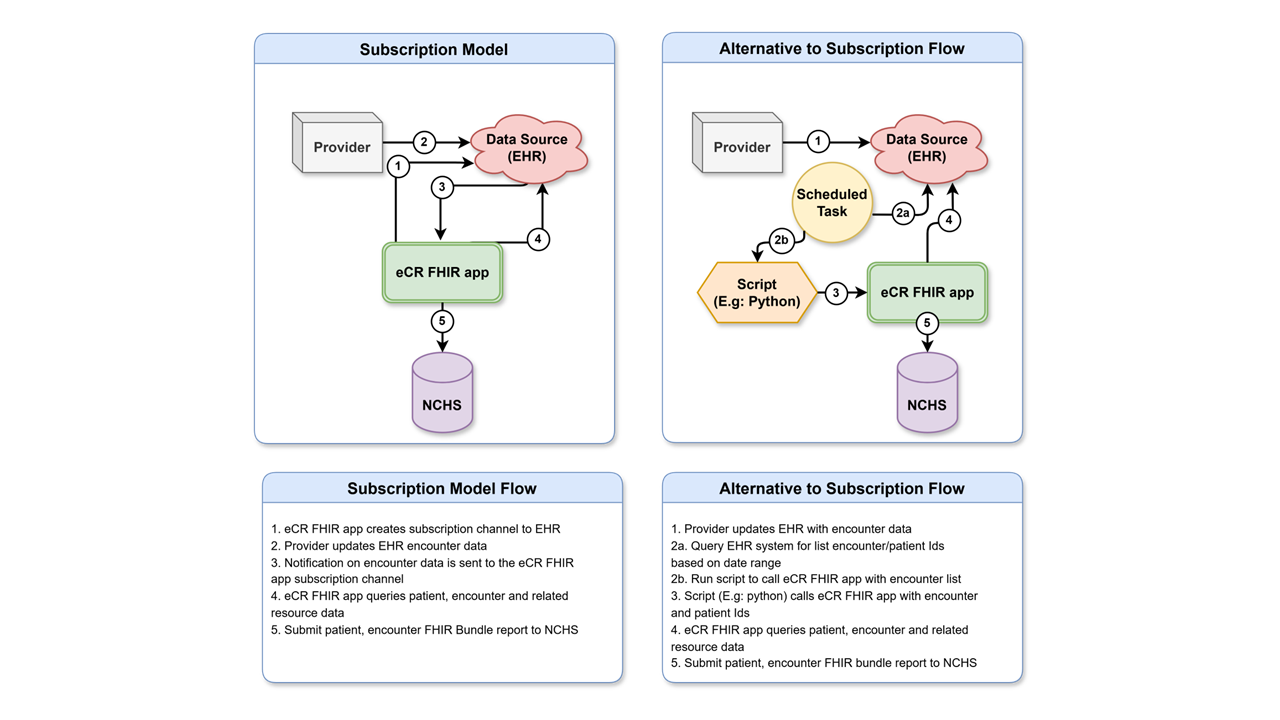
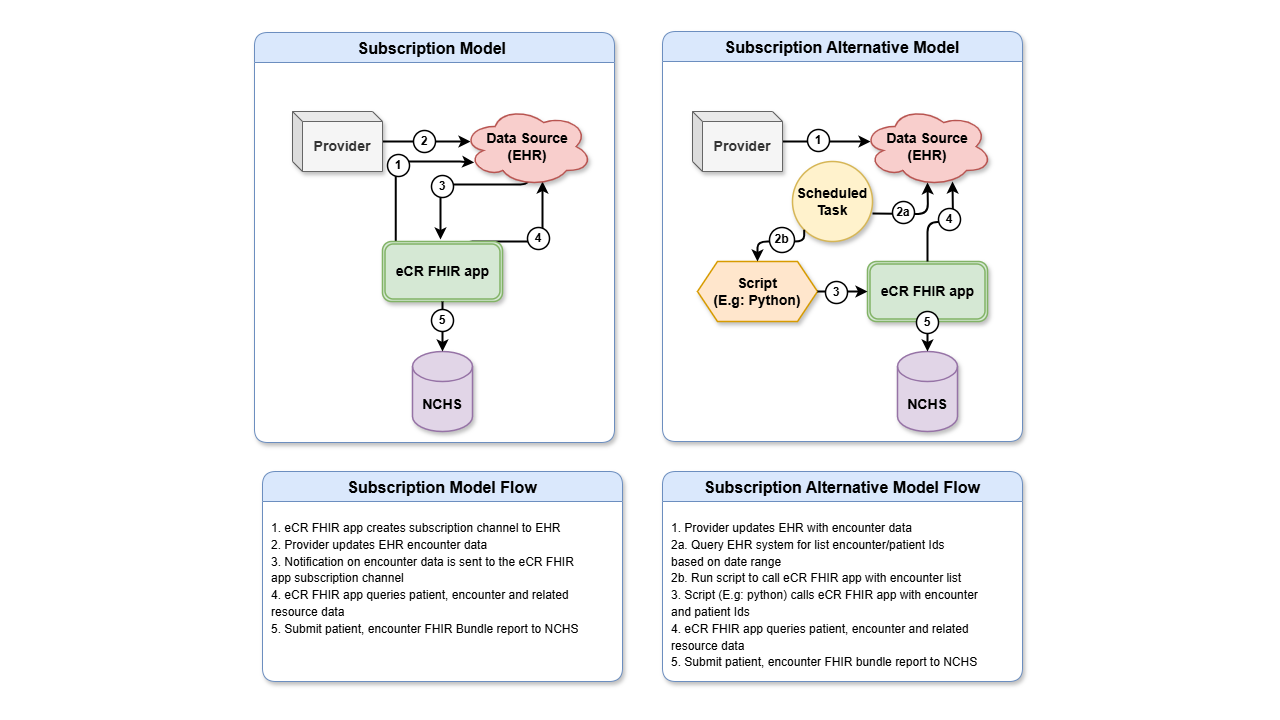
Revision of Illustration Name

diff --git a/input/pagecontent/usecases.md b/input/pagecontent/usecases.md
@@ -108,6 +108,6 @@ The diagram in Figure 2.4 illustrates two distinct approaches for detecting that
 
 Systems without FHIR Subscription capabilities can implement the alternative method shown, which employs scheduled tasks running at regular intervals.
 
-{% include img.html img="alternatives.png" caption="Figure 2.4 - Subscription & Scheduled Task Notification Models" %}
+{% include img.html img="alternatives.png" caption="Figure 2.4 - Subscription & Non-Subscription Models" %}
 
 
